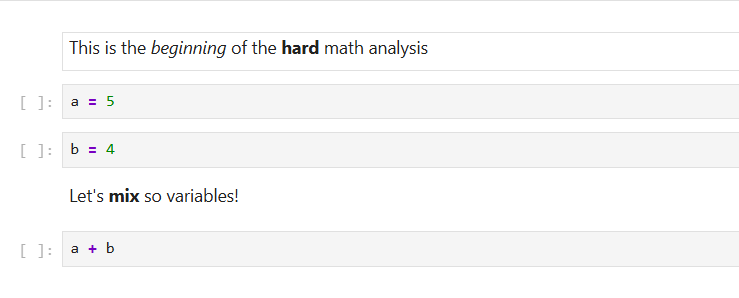
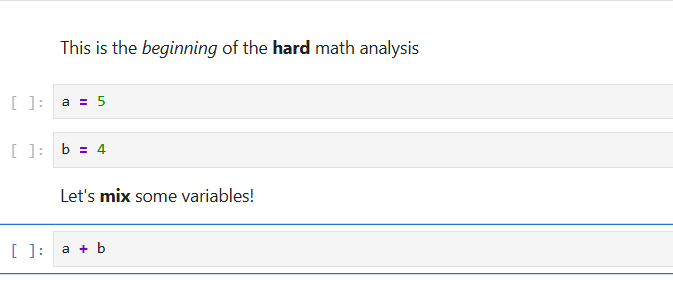
Update marimo and jupyter notebooks

diff --git a/content/posts/marimo-overview/math_analysis.py b/content/posts/marimo-overview/math_analysis.py
@@ -1,0 +1,44 @@
+import marimo
+
+__generated_with = "0.16.1"
+app = marimo.App(width="medium")
+
+
+@app.cell
+def _():
+    import marimo as mo
+    return (mo,)
+
+
+@app.cell(hide_code=True)
+def _(mo):
+    mo.md(r"""This is the _beginning_ of the **hard** math analysis""")
+    return
+
+
+@app.cell
+def _():
+    a = 5
+    return (a,)
+
+
+@app.cell
+def _():
+    b = 4
+    return (b,)
+
+
+@app.cell(hide_code=True)
+def _(mo):
+    mo.md(r"""Let's **mix** some variables!""")
+    return
+
+
+@app.cell
+def _(a, b):
+    a + b
+    return
+
+
+if __name__ == "__main__":
+    app.run()

diff --git a/content/posts/marimo-overview/index.md b/content/posts/marimo-overview/index.md
@@ -17,6 +17,9 @@ draft = true
 # Why Should You Care?
 [Jupyter Notebooks](https://jupyter.org) are a cornerstone of the Python ecosystem, especially in research and data science. Their ability to combine code, markdown, results, and visualizations makes them a powerful tool for analysis and communication.
 
+
+<---! Include a graphic from the paper on how the example jpuyter looks like --->
+
 But they also come with well-documented drawbacks: hidden execution order, reproducibility issues, and encouragement of poor coding practices. A 2019 study — [*"A Large-scale Study about Quality and Reproducibility of Jupyter Notebooks"*](https://leomurta.github.io/papers/pimentel2019a.pdf)[^fn] — highlighted how these problems undermine reliability at scale.
 
 [^fn]: J. F. Pimentel, L. Murta, V. Braganholo and J. Freire, "A Large-Scale Study About Quality and Reproducibility of Jupyter Notebooks," 2019 IEEE/ACM 16th International Conference on Mining Software Repositories (MSR), Montreal, QC, Canada, 2019, pp. 507-517, doi: 10.1109/MSR.2019.00077.
@@ -45,8 +48,8 @@ In our “extremely realistic” scenario, we’ll conduct a *hardcore* mathemat
 
 We’ll begin with this simple setup:
 
-***
-{{< figure src="./images/jupyter/jupyter_initial_setup.png" alt="Screenshot presenting the initial setup of the Jupyter Notebook demo." position="center" style="border-radius: 8px;" caption="The initial setup inside Jupyter Notebook." captionPosition="right" captionStyle="color: white;" >}}
+*** 
+{{< figure src="./images/jupyter/jupyter_initial_setup.png" alt="Screenshot presenting the initial setup of the Jupyter Notebook demo." position="center" style="border-radius: 8px;" caption="This is how the setup presents itself within Jupyter Notebook." captionPosition="right" captionStyle="color: white;" >}}
 ***
 
 It may look trivial, but it already includes both markdown and code — enough to serve as a foundation for our example.
@@ -54,3 +57,5 @@ It may look trivial, but it already includes both markdown and code — enough t
 With that in place, let’s jump straight into the first problem: **execution order**.
 
 *Disclaimer: This post assumes some familiarity with Python and git. If you’re new to either, don’t worry — the examples should still be clear enough to follow along.*
+
+# Pain Point #1: Execution Order
